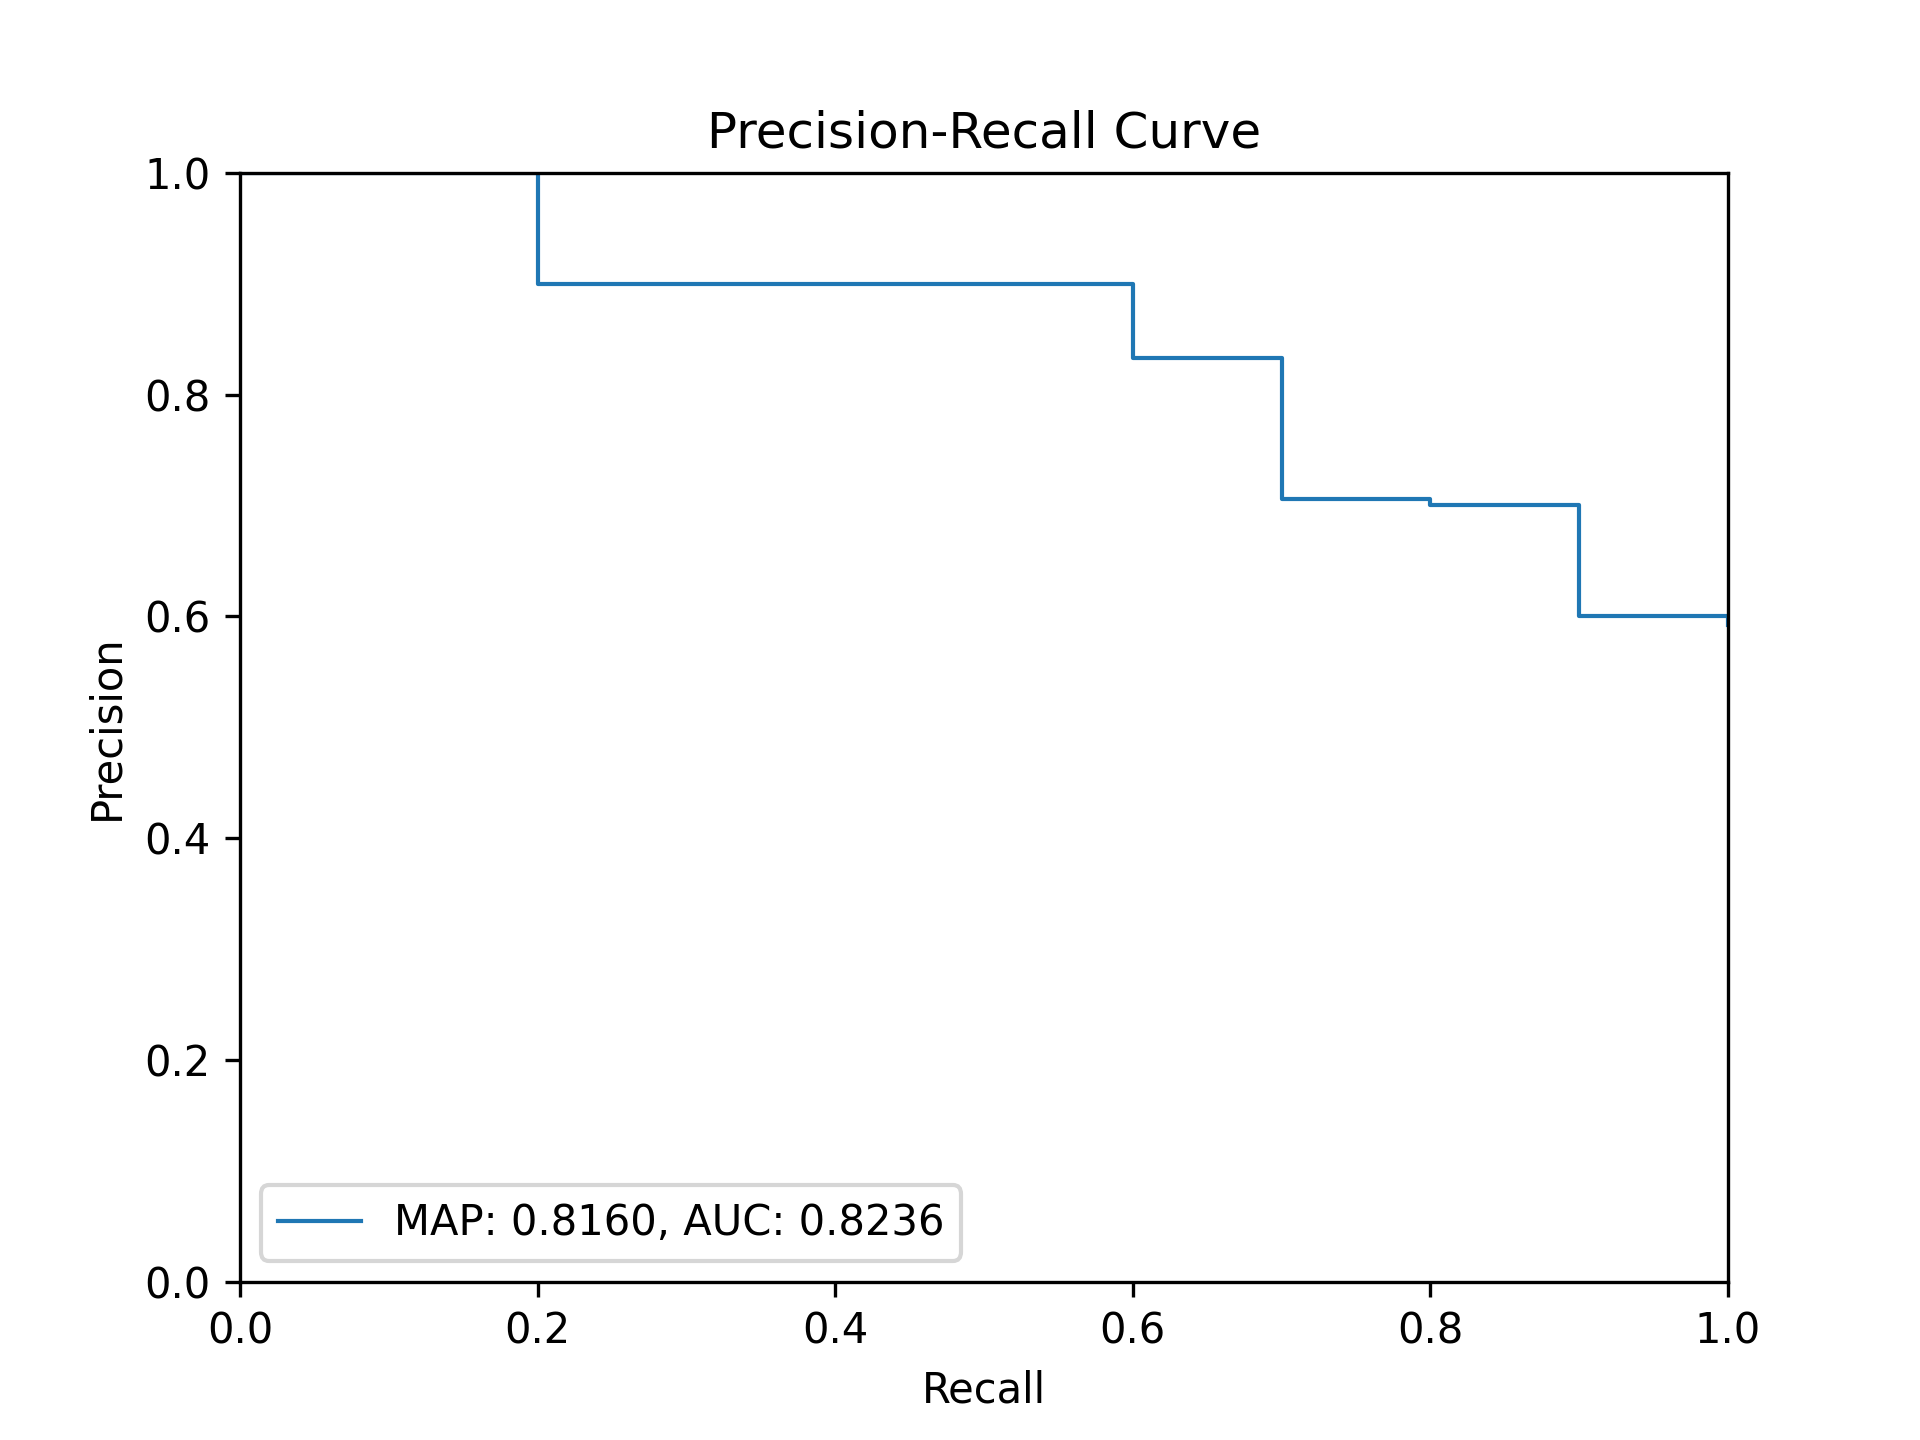
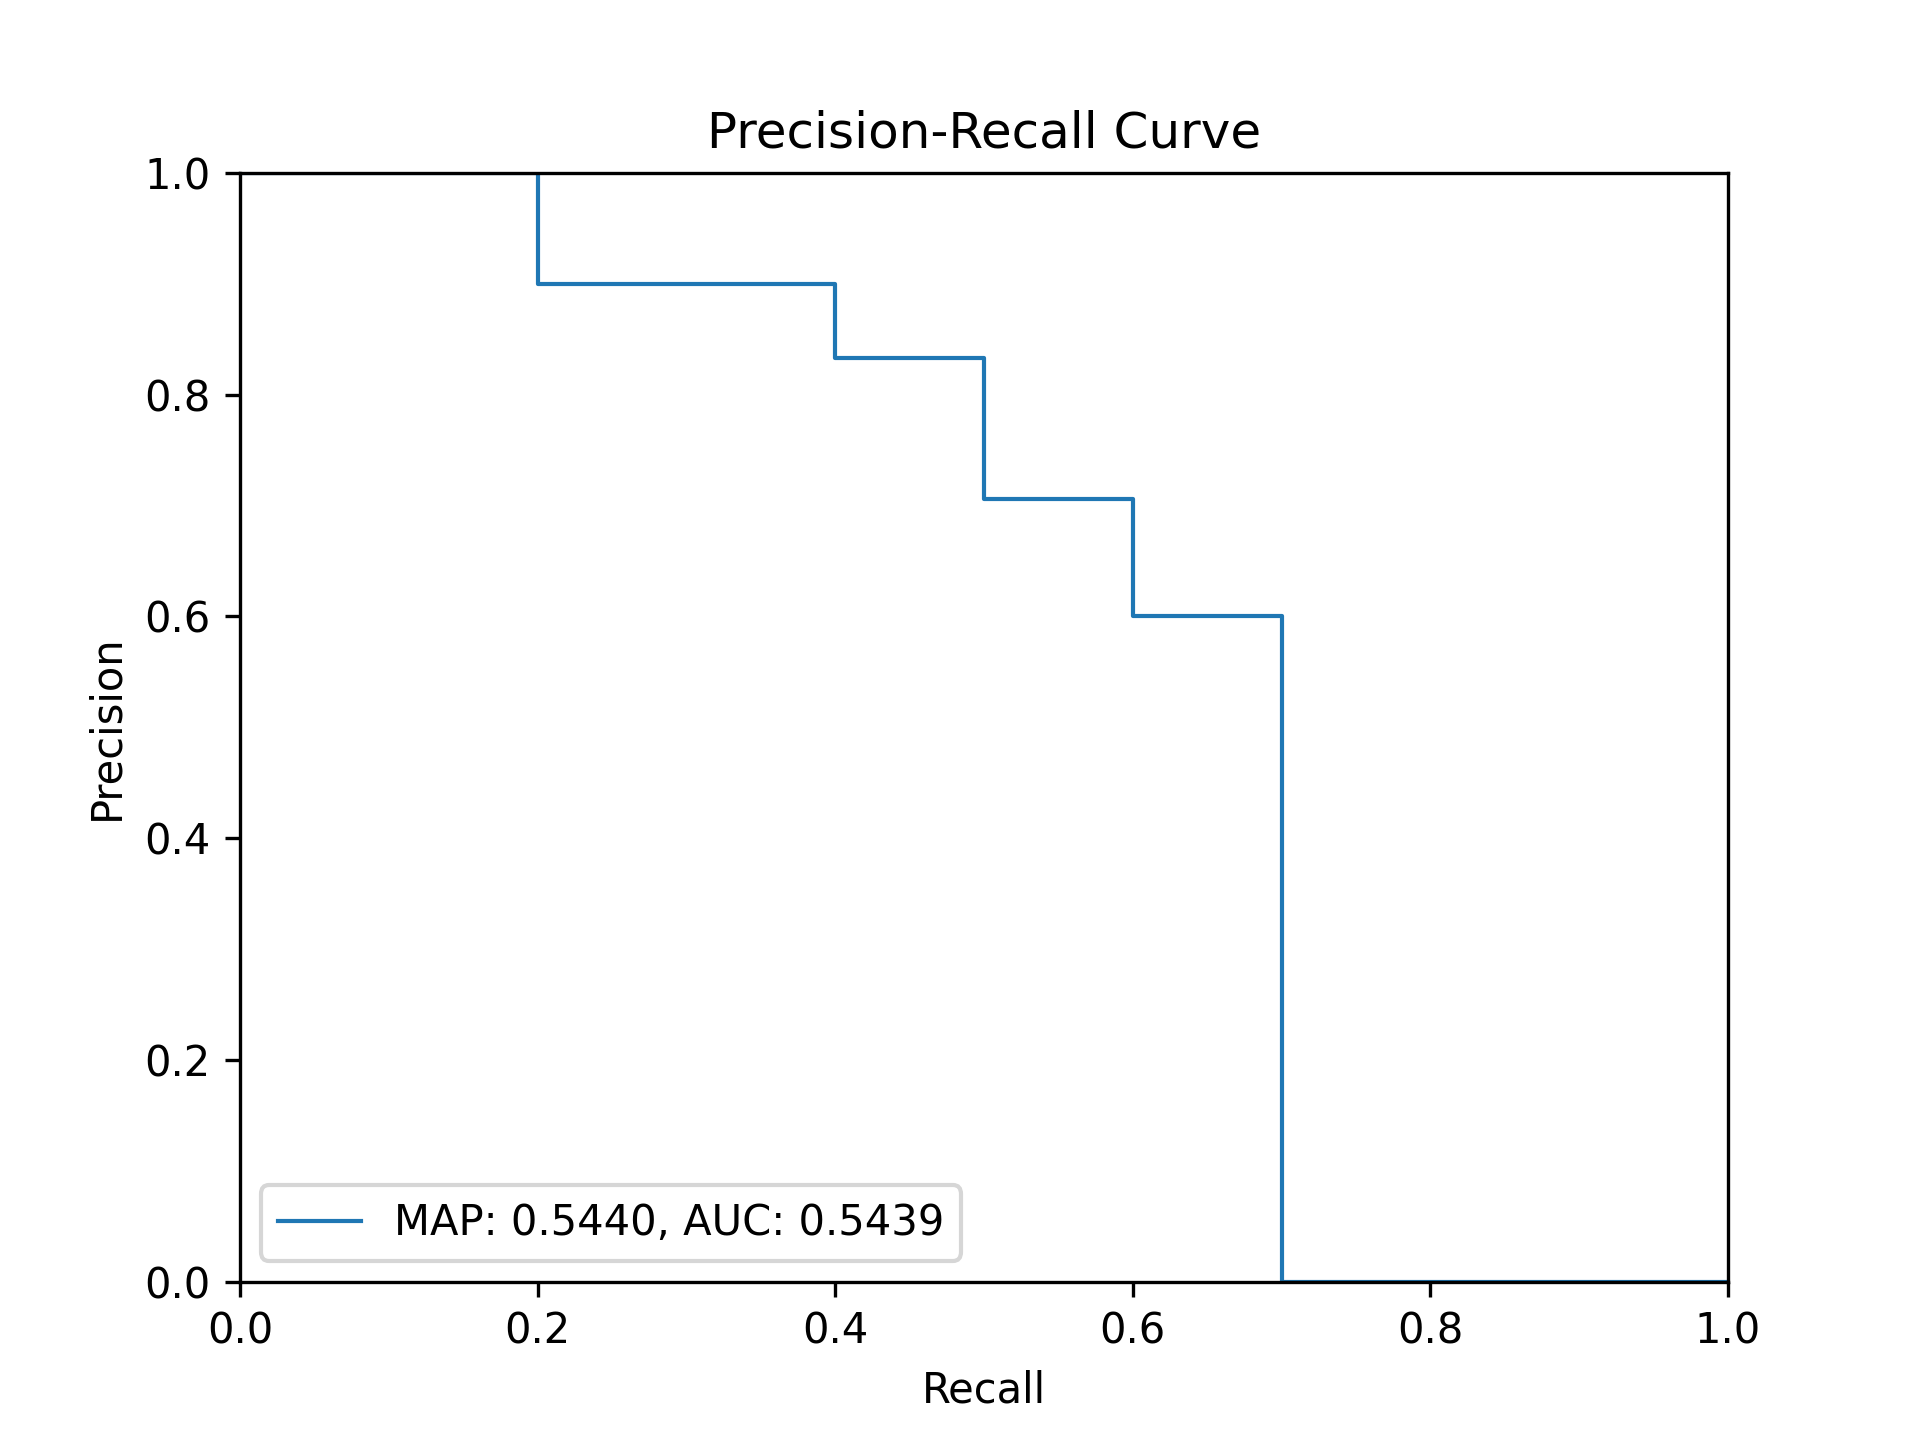
fix approach for ash gym battles

diff --git a/m2/evaluation/merge_eval_trec.py b/m2/evaluation/merge_eval_trec.py
@@ -7,14 +7,8 @@ parser = argparse.ArgumentParser(description='Merge qrel files and query respons
 parser.add_argument('qrel_file_txt', type=str, help='The file containing first to be merged qrel data.')
 # Second qrel file
 parser.add_argument('qrel_file2_txt', type=str, help='The file containing second to be merged qrel data.')
-# First query response file
-parser.add_argument('query_response_txt', type=str, help='The file containing response data.')
-# Second query response file
-parser.add_argument('query_response2_txt', type=str, help='The file to save the merged data.')
-# Output merged qrel file
-parser.add_argument("output_merged_qrels_txt", type=str, help="The file to save the merged qrels data.")
 # Output merged response file
-parser.add_argument("output_merged_responses_txt", type=str, help="The file to save the merged responses data.")
+parser.add_argument("output_merged_qrels_txt", type=str, help="The file to save the merged responses data.")
 
 # Parse arguments
 args = parser.parse_args()
@@ -29,26 +23,7 @@ with open(args.qrel_file_txt, 'r') as qrel1:
                     qrel_lines2.append(line);
             output_qrel.writelines(qrel_lines2);
 
-with open(args.query_response_txt, 'r') as response1:
-    response_lines = response1.readlines()
-    with open(args.query_response2_txt, 'r') as response2:
-        response_lines2 = response2.readlines()
-        with open(args.output_merged_responses_txt, 'w') as output_response:
-            seen_third_words = set()
-            temp = []
-            for line in response_lines:
-                words = line.split()
-                if len(words) > 2:
-                    seen_third_words.add(words[2])
-                temp.append(line)
-            for line2 in response_lines2:
-                words2 = line2.split()
-                if len(words2) > 2 and words2[2] in seen_third_words:
-                    continue
-                temp.append(line2)
-                if len(words2) > 2:
-                    seen_third_words.add(words2[2])
-            output_response.writelines(temp)
-print(f"Merged qrel and response files have been saved to {args.output_merged_qrels_txt} and {args.output_merged_responses_txt} respectively.")
+
+print(f"Merged qrel files have been saved to {args.output_merged_qrels_txt}.")
 # Command to run below for ASh gym battle
 # python3 merge_eval_trec.py ashBattle/simple_system/qrels.txt ashBattle/complex_system/qrel.txt ashBattle/simple_system/response.txt ashBattle/complex_system/response.txt ashBattle/merged_qrels.txt ashBattle/merged_response.txt
